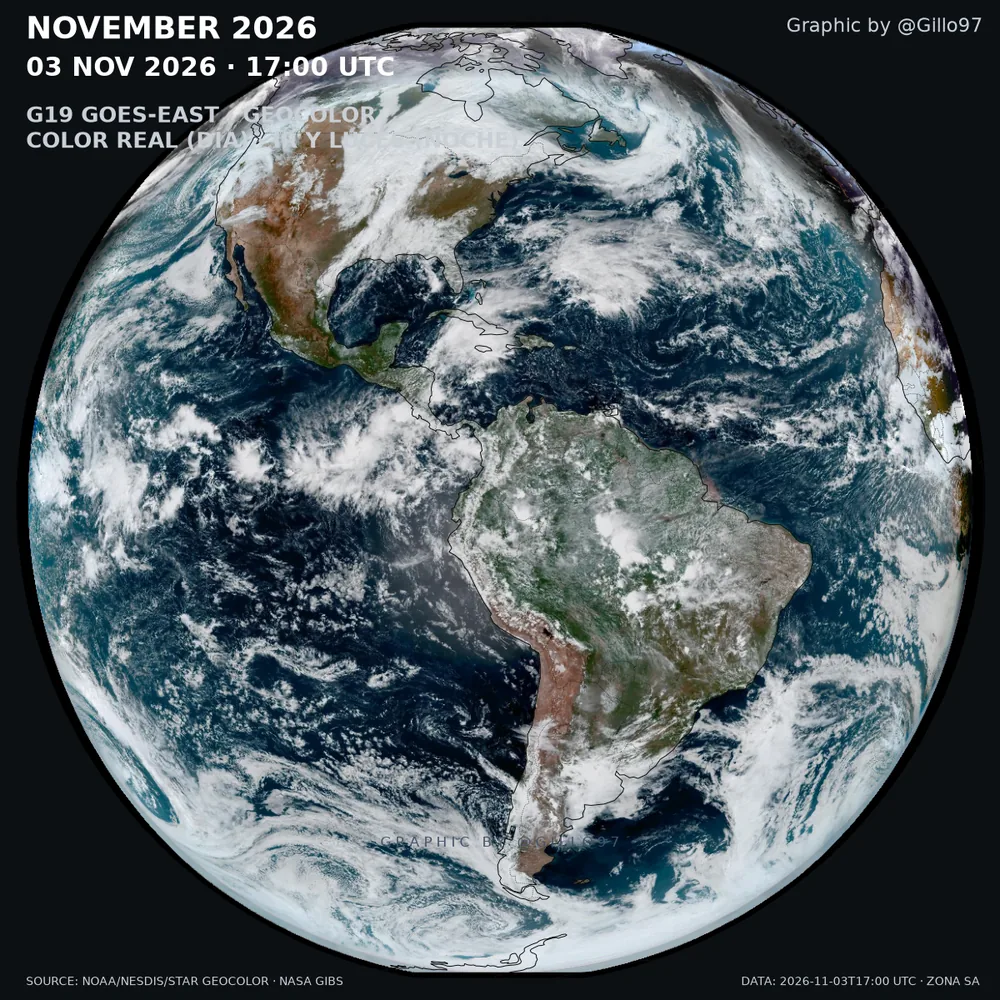
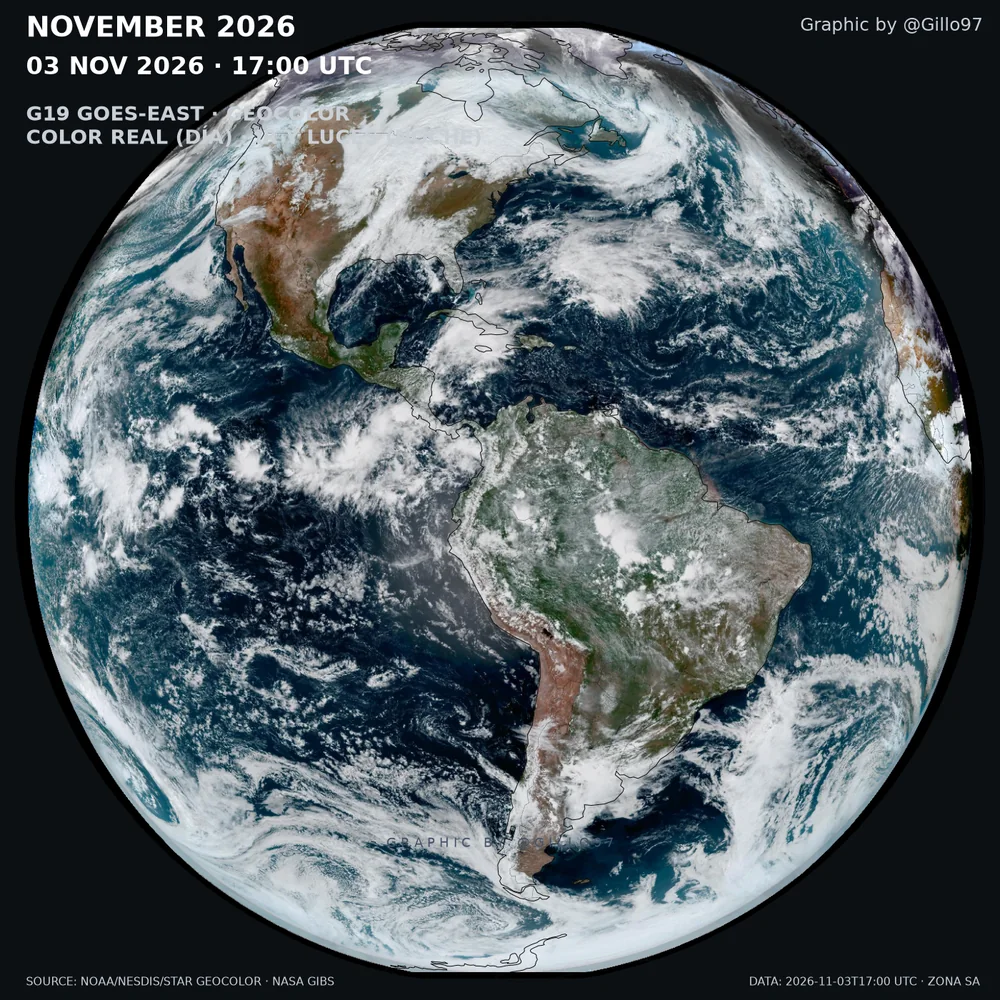
fix(geocolor): layer per satellite, west hemisphere split and gap-tolerant renders

diff --git a/descargar/geocolor.py b/descargar/geocolor.py
@@ -110,22 +110,61 @@ def valida(datos: bytes) -> bool:
     return int(pixeles.max()) > 8
 
 
+def caja_globo(centro_lon: float) -> list[float]:
+    """Caja que cubre el hemisferio visible del satélite, centrada en él."""
+    return [centro_lon - 90.0, -80.0, centro_lon + 90.0, 80.0]
+
+
+def partes(bbox, ancho: int) -> list[tuple[tuple[float, float, float, float], int]]:
+    """La caja partida si cruza el antimeridiano (caso GOES-West).
+
+    GIBS rechaza longitudes fuera de -180..180, así que el hemisferio de G18
+    (centrado en -137) se pide en dos mitades y se pega después.
+    """
+    o, s, e, n = bbox
+    if o >= -180.0:
+        return [((o, s, e, n), ancho)]
+    corte = o + 360.0
+    fraccion = (180.0 - corte) / (e - o)
+    ancho1 = max(1, min(ancho - 1, round(ancho * fraccion)))
+    return [((corte, s, 180.0, n), ancho1), ((-180.0, s, e, n), ancho - ancho1)]
+
+
+def _bajar(t: datetime, bbox, ancho: int, alto: int, capa: str) -> bytes:
+    """Baja el cuadro (una o dos mitades) y devuelve el JPEG ya armado."""
+    crudos: list[bytes] = []
+    imagenes: list[Image.Image] = []
+    for caja, ancho_parte in partes(bbox, ancho):
+        r = _sesion().get(url_cuadro(t, caja, ancho_parte, alto, capa), timeout=TIMEOUT)
+        r.raise_for_status()
+        if not valida(r.content):
+            raise ValueError(f"cuadro sin dato ({len(r.content)} B)")
+        crudos.append(r.content)
+        imagenes.append(Image.open(io.BytesIO(r.content)).convert("RGB"))
+    if len(crudos) == 1:
+        return crudos[0]
+    lienzo = Image.new("RGB", (sum(im.width for im in imagenes), imagenes[0].height))
+    x = 0
+    for im in imagenes:
+        lienzo.paste(im, (x, 0))
+        x += im.width
+    buf = io.BytesIO()
+    lienzo.save(buf, format="JPEG", quality=92)
+    return buf.getvalue()
+
+
 def descargar_cuadro(t: datetime, bbox, ancho: int, alto: int, destino: Path,
                      capa: str = CAPA, reintentos: int = 3) -> Path:
     """Baja el cuadro a `destino`; lo reutiliza si ya está (reanudable)."""
     if destino.exists() and destino.stat().st_size > 5_000:
         return destino
     destino.parent.mkdir(parents=True, exist_ok=True)
-    url = url_cuadro(t, bbox, ancho, alto, capa)
     espera = 2.0
     for intento in range(1, reintentos + 1):
         try:
-            r = _sesion().get(url, timeout=TIMEOUT)
-            r.raise_for_status()
-            if not valida(r.content):
-                raise ValueError(f"cuadro sin dato ({len(r.content)} B)")
+            datos = _bajar(t, bbox, ancho, alto, capa)
             tmp = destino.with_suffix(destino.suffix + ".parcial")
-            tmp.write_bytes(r.content)
+            tmp.write_bytes(datos)
             tmp.replace(destino)
             return destino
         except Exception as exc:                       # red o corte del servicio
@@ -158,9 +197,9 @@ def main(argv=None) -> int:
     ap.add_argument("--alto", type=int, help="alto en píxeles (por defecto, según la caja)")
     ap.add_argument("--src-px", type=int,
                     help="ancho de la imagen de origen; por defecto, según el modo")
-    ap.add_argument("--hilos", type=int, default=16,
-                    help="descargas simultáneas (por defecto 16, para saturar el enlace; "
-                         "bajalo si el servicio devuelve 429)")
+    ap.add_argument("--hilos", type=int, default=6,
+                    help="descargas simultáneas (por defecto 6: con más, GIBS empieza a "
+                         "devolver cuadros negros)")
     ap.add_argument("--sat", default="G19",
                     help="satélite: G19/G16 = GOES-East, G18 = GOES-West (por defecto G19)")
     ap.add_argument("--out", help="carpeta de salida (por defecto, comun.rutas.SALIDAS)")
@@ -172,7 +211,8 @@ def main(argv=None) -> int:
     capa = CAPAS[sat]
 
     if args.bbox is None:
-        args.bbox = list(BBOX_GLOBO if args.globo else BBOX)
+        # El globo se pide centrado en el satélite: cada uno ve su hemisferio.
+        args.bbox = caja_globo(args.centro[0]) if args.globo else list(BBOX)
     o, s, e, n = args.bbox
     if not (o < e and s < n):
         raise SystemExit(f"caja inválida: {args.bbox}")
@@ -185,7 +225,7 @@ def main(argv=None) -> int:
     t0 = datetime.fromisoformat(args.desde)
     salida = Path(args.out) if args.out else SALIDAS
     vista = "globo" if args.globo else "plano"
-    etiqueta = f"geocolor_{vista}_{t0:%Y-%m-%dT%H%M}_{args.n}f_{args.px}px"
+    etiqueta = f"geocolor_{vista}_{sat}_{t0:%Y-%m-%dT%H%M}_{args.n}f_{args.px}px"
     frames_dir = salida / f"frames_{etiqueta}"
     frames_dir.mkdir(parents=True, exist_ok=True)
 
@@ -200,7 +240,7 @@ def main(argv=None) -> int:
     # Cada cuadro es un GET independiente: se bajan en paralelo. Si el servicio devuelve
     # 429, bajá --hilos.
     hechos = 0
-    fallidos = 0
+    pendientes: list[tuple[int, datetime]] = []
     with ThreadPoolExecutor(max_workers=args.hilos) as pool:
         futuros = {
             pool.submit(descargar_cuadro, t, (o, s, e, n), src_px, src_alto,
@@ -212,17 +252,33 @@ def main(argv=None) -> int:
             try:
                 fut.result()
             except Exception as exc:
-                fallidos += 1
+                pendientes.append((i, t))
                 print(f"[{i}/{args.n}] {t:%Y-%m-%d %H:%M} UTC  ERROR: {exc}", flush=True)
                 continue
             hechos += 1
-            print(f"  {hechos}/{args.n} listos (errores {fallidos}) {time.time() - inicio:.0f}s",
-                  flush=True)
+            print(f"  {hechos}/{args.n} listos (errores {len(pendientes)}) "
+                  f"{time.time() - inicio:.0f}s", flush=True)
+
+    # Los huecos de GIBS son de minutos: una segunda pasada, de a uno, los recupera.
+    if pendientes:
+        print(f"Segunda pasada: {len(pendientes)} cuadro(s) sin dato", flush=True)
+        time.sleep(3)
+        for i, t in pendientes:
+            try:
+                descargar_cuadro(t, (o, s, e, n), src_px, src_alto,
+                                 frames_dir / f"crudo_{i:03d}.jpg", capa)
+                hechos += 1
+            except Exception as exc:
+                print(f"  [{i}] sigue sin dato: {exc}", flush=True)
+        pendientes = [(i, t) for i, t in pendientes
+                      if not (frames_dir / f"crudo_{i:03d}.jpg").exists()]
 
     print(f"{hechos} cuadros listos en {time.time() - inicio:.0f}s")
-    if fallidos:
-        raise SystemExit(f"Faltan {fallidos} cuadros. Volvé a correr el mismo comando: "
-                         "los que ya están se reutilizan y sólo se reintentan los que faltan.")
+    if pendientes:
+        raise SystemExit(
+            f"Faltan {len(pendientes)} cuadro(s) que GIBS no tiene publicados: "
+            f"{[i for i, _ in pendientes][:12]}. Se puede renderizar el resto igual: "
+            "volvé a correr y los que ya están se reutilizan.")
     print("Ahora renderizá con: "
           f".venv\\Scripts\\python.exe cuadros\\cuadros_geocolor.py "
           f"--desde {t0:%Y-%m-%dT%H:%M} --n {args.n} --px {args.px}"

diff --git a/cuadros/cuadros_geocolor.py b/cuadros/cuadros_geocolor.py
@@ -37,7 +37,12 @@ BBOX = (-85.0, -40.0, -35.0, 15.0)      # oeste, sur, este, norte
 BBOX_GLOBO = (-160.0, -80.0, 15.0, 80.0)
 GLOBO_LON, GLOBO_LAT = -58.0, -23.0     # mismo centro por defecto del resto del repo
 # Dos líneas, como el subtítulo del póster: en una sola se sale del cuadro.
-SUBTITULO = "G19 GOES-EAST · GEOCOLOR\nCOLOR REAL (DÍA) · IR Y LUCES (NOCHE)"
+_SUBTITULOS = {
+    "G19": "G19 GOES-EAST · GEOCOLOR",
+    "G16": "G16 GOES-EAST · GEOCOLOR",
+    "G18": "G18 GOES-WEST · GEOCOLOR",
+}
+SUBTITULO = _SUBTITULOS["G19"] + "\nCOLOR REAL (DÍA) · IR Y LUCES (NOCHE)"
 FUENTE = "SOURCE: NOAA/NESDIS/STAR GEOCOLOR · NASA GIBS"
 # Los rótulos están calibrados a la animación de 720 px del repo (19 pt de título), pero
 # escalarlos linealmente hace que a 2048 px dominen el cuadro. Crecen sub-lineal (exponente
@@ -172,6 +177,11 @@ def _warp_ortho(rgb, bbox, centro, lado, banda=256):
         lon = np.where(es_centro, lon0, lon)
 
         lon_deg = (np.degrees(lon) + 180.0) % 360.0 - 180.0
+        # GOES-West ve un hemisferio que cruza el antimeridiano: la caja puede
+        # empezar en -227, así que la longitud se lleva al marco de la caja.
+        if o < -180.0:
+            lon_deg = np.where(lon_deg > e, lon_deg - 360.0, lon_deg)
+
         lat_deg = np.degrees(lat)
 
         # Posición de muestreo en la imagen de origen (plate carrée).
@@ -287,7 +297,8 @@ def _sello_render(args, salida_alto: int) -> str:
 def _comando_descarga(t0: datetime, args) -> str:
     """Comando de `descargar/geocolor.py` que genera los crudos de esta corrida."""
     cmd = (f".venv\\Scripts\\python.exe descargar\\geocolor.py "
-           f"--desde {t0:%Y-%m-%dT%H:%M} --n {args.n} --px {args.px}")
+           f"--desde {t0:%Y-%m-%dT%H:%M} --n {args.n} --px {args.px}"
+           f" --sat {args.sat.upper()}")
     return cmd + (" --globo" if args.globo else "")
 
 
@@ -302,6 +313,8 @@ def main(argv=None) -> int:
     ap.add_argument("--bbox", nargs=4, type=float, metavar=("O", "S", "E", "N"),
                     help="caja lon/lat de origen (por defecto, Sudamérica; con --globo, "
                          "la que cubre el hemisferio visible)")
+    ap.add_argument("--sat", default="G19",
+                    help="satélite del rótulo: G19/G16 = GOES-East, G18 = GOES-West")
     ap.add_argument("--globo", action="store_true",
                     help="reproyectar a Orthographic centrado en --centro (aspecto 'planeta')")
     ap.add_argument("--centro", nargs=2, type=float, metavar=("LON", "LAT"),
@@ -324,8 +337,15 @@ def main(argv=None) -> int:
     ap.add_argument("--out", help="carpeta de salida (por defecto, comun.rutas.SALIDAS)")
     args = ap.parse_args(argv)
 
+    global SUBTITULO
+    sat = args.sat.upper()
+    SUBTITULO = (f"{_SUBTITULOS.get(sat, _SUBTITULOS['G19'])}\n"
+                 "COLOR REAL (DÍA) · IR Y LUCES (NOCHE)")
+
     if args.bbox is None:
-        args.bbox = list(BBOX_GLOBO if args.globo else BBOX)
+        # Mismo criterio que la descarga: el globo se centra en el satélite.
+        args.bbox = ([args.centro[0] - 90.0, -80.0, args.centro[0] + 90.0, 80.0]
+                     if args.globo else list(BBOX))
     o, s, e, n = args.bbox
     if not (o < e and s < n):
         raise SystemExit(f"caja inválida: {args.bbox}")
@@ -339,7 +359,7 @@ def main(argv=None) -> int:
     t0 = datetime.fromisoformat(args.desde)
     salida = Path(args.out) if args.out else SALIDAS
     vista = "globo" if args.globo else "plano"
-    etiqueta = f"geocolor_{vista}_{t0:%Y-%m-%dT%H%M}_{args.n}f_{args.px}px"
+    etiqueta = f"geocolor_{vista}_{sat}_{t0:%Y-%m-%dT%H%M}_{args.n}f_{args.px}px"
     frames_dir = salida / f"frames_{etiqueta}"
 
     if not frames_dir.exists():
@@ -365,10 +385,15 @@ def main(argv=None) -> int:
     # que corresponda se nombra con el comando exacto que los genera.
     faltan = [i for i in range(1, args.n + 1)
               if not (frames_dir / f"crudo_{i:03d}.jpg").exists()]
-    if faltan:
+    if len(faltan) == args.n:
         raise SystemExit(
-            f"Faltan {len(faltan)} crudos ({faltan[:12]}...). Generálos con:\n"
+            f"No hay ningún crudo en {frames_dir}. Generálos con:\n"
             f"  {_comando_descarga(t0, args)}")
+    if faltan:
+        # GIBS tiene huecos de 10-20 min: se saltean esos cuadros en vez de tirar
+        # abajo la animación entera.
+        print(f"  aviso: {len(faltan)} cuadro(s) sin dato de GIBS "
+              f"({faltan[:12]}...); se saltean", flush=True)
 
     print(f"GeoColor {vista} | {args.n} cuadros desde {t0:%Y-%m-%d %H:%M} UTC | "
           f"salida {args.px}x{salida_alto} px | frames en {frames_dir}")
@@ -377,6 +402,8 @@ def main(argv=None) -> int:
     for i, t in enumerate(tiempos, 1):
         crudo = frames_dir / f"crudo_{i:03d}.jpg"
         destino = frames_dir / f"cuadro_{i:03d}.png"
+        if not crudo.exists():
+            continue                   # hueco de GIBS: la serie sigue sin ese cuadro
         if destino.exists() and destino.stat().st_mtime >= crudo.stat().st_mtime:
             pass                       # ya renderizado con estos parámetros
         elif args.globo:

diff --git a/app/api/recipes.py b/app/api/recipes.py
@@ -1120,12 +1120,17 @@ def _geocolor(params: dict[str, Any], work: Path) -> Plan:
     # de la cache, que el descargador arma con el mismo nombre que el render.
     desde, n, paso, _ = _plan_slots(set(), cenital, animar, ventana)
 
-    etiqueta = f"frames_geocolor_globo_{desde:%Y-%m-%dT%H%M}_{n}f_{px}px"
+    etiqueta = f"frames_geocolor_globo_{sat}_{desde:%Y-%m-%dT%H%M}_{n}f_{px}px"
     carpeta = work / etiqueta
     falta = not (carpeta.is_dir() and next(carpeta.glob("crudo_*.jpg"), None) is not None)
 
+    # El hemisferio visible depende del satélite: la caja va centrada en él. Para
+    # GOES-West cruza el antimeridiano y los dos scripts la parten en dos mitades.
+    caja = [lon_sub - 90.0, -80.0, lon_sub + 90.0, 80.0]
     comunes = [
         "--globo",
+        "--sat", sat,
+        "--bbox", *[f"{valor:g}" for valor in caja],
         "--desde", desde.strftime("%Y-%m-%dT%H:%M"),
         "--n", str(n),
         "--paso", str(paso),
@@ -1136,9 +1141,7 @@ def _geocolor(params: dict[str, Any], work: Path) -> Plan:
         kind="download",
         label=f"bajando GeoColor de {sat} ({n} cuadro(s))",
         script="descargar/geocolor.py",
-        # Cada satélite tiene su capa (East/West): el render no la necesita, la
-        # descarga sí. Sin esto, G18 bajaba la imagen de GOES-East.
-        args=["--sat", sat, *comunes],
+        args=comunes,
         expected=max(1, n),
     )
     render_step = Step(
